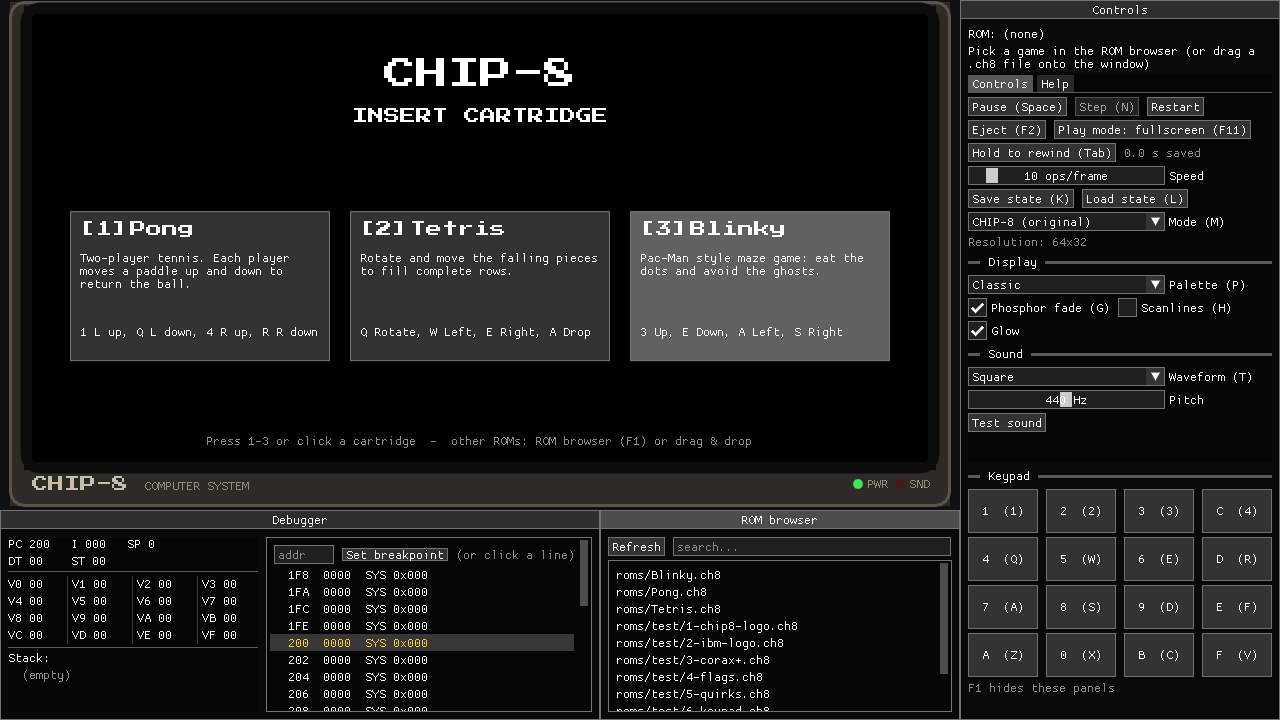
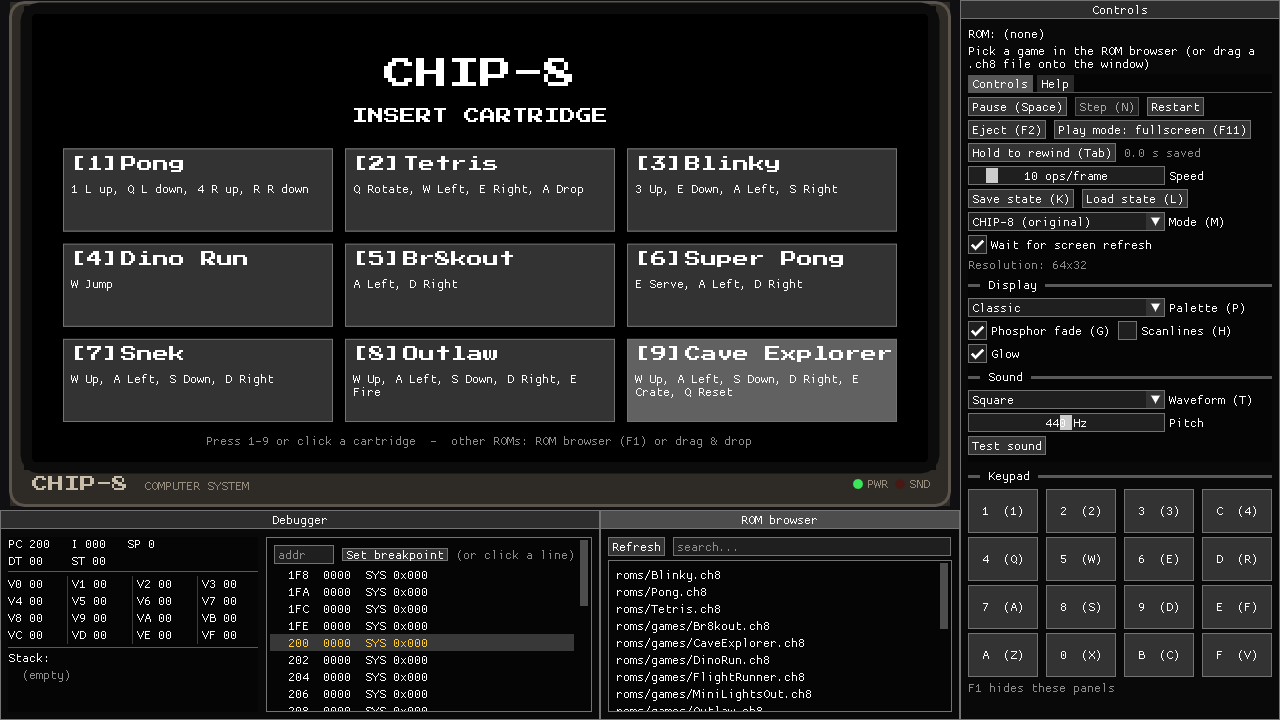
feat(ui): 9-cartridge start screen, per-game settings incl. screen-refresh wait

diff --git a/src/ui.cpp b/src/ui.cpp
@@ -63,7 +63,7 @@ static void help_tab(App& app){
 
         // One click sets the mode and speed this game needs
         bool mode_ok = (app.chip8.cosmac_quirks == !g->needs_schip);
-        if(!mode_ok || app.s.cycles_per_frame != g->speed){
+        if(!mode_ok || app.s.cycles_per_frame != g->speed || app.s.display_wait != g->vblank){
             char label[96];
             std::snprintf(label, sizeof(label), "Apply: %s mode, speed %d",
                           g->needs_schip ? "SUPER-CHIP" : "CHIP-8", g->speed);
@@ -166,8 +166,13 @@ static void side_panel(App& app){
             int mode = app.chip8.cosmac_quirks ? 0 : 1;
             if(ImGui::Combo("Mode (M)", &mode, "CHIP-8 (original)\0SUPER-CHIP\0")){
                 app.chip8.cosmac_quirks = (mode == 0);
+                s.display_wait = (mode == 0); // the original CHIP-8 waits, SUPER-CHIP doesn't
                 app_update_title(app);
             }
+            ImGui::Checkbox("Wait for screen refresh", &s.display_wait);
+            if(ImGui::IsItemHovered())
+                ImGui::SetTooltip("At most one sprite draw per frame, like the original 1977 machine.\n"
+                                  "Newer games (written for the Octo emulator) expect this off.");
             ImGui::TextDisabled("Resolution: %dx%d%s", app.chip8.screen_width(), app.chip8.screen_height(),
                                 app.chip8.hires ? " (hi-res)" : "");
 
@@ -417,6 +422,9 @@ static void apply_theme(const Palette& pal){
     c[ImGuiCol_TextSelectedBg]       = accent(0.40f, 0.6f);
 }
 
+// The palette's accent colour (set by apply_theme), as a packed colour for drawing
+static ImU32 col_accent_u32(){ return ImGui::GetColorU32(ImGuiCol_CheckMark); }
+
 // Blinks at about 2 Hz, for "INSERT CARTRIDGE" style text
 static bool blink(){ return (int)(ImGui::GetTime() * 2.0) % 2 == 0; }
 
@@ -490,48 +498,57 @@ static void start_screen(App& app){
         dl->AddText(f, fs, ImVec2(cx - ssz.x / 2, y + big_size + 18), col, sub);
     }
 
-    // One "cartridge" card per built-in game that exists on disk
-    static const char* const carts[] = {"roms/Pong.ch8", "roms/Tetris.ch8", "roms/Blinky.ch8"};
+    // One "cartridge" card per built-in game that exists on disk, in a 3-column grid
+    static const char* const carts[] = {
+        "roms/Pong.ch8", "roms/Tetris.ch8", "roms/Blinky.ch8",
+        "roms/games/DinoRun.ch8", "roms/games/Br8kout.ch8", "roms/games/SuperPong.ch8",
+        "roms/games/Snek.ch8", "roms/games/Outlaw.ch8", "roms/games/CaveExplorer.ch8"};
     std::vector<const char*> found;
     std::error_code err;
     for(const char* c : carts) if(fs::exists(c, err)) found.push_back(c);
-
     if(!found.empty()){
-        float card_w = std::min(260.0f, (sc.w - 60.0f) / 3.0f), card_h = std::min(150.0f, sc.h * 0.36f);
-        float total = found.size() * card_w + (found.size() - 1) * 20.0f;
-        float x0 = (sc.w - total) / 2.0f, y0 = sc.h * 0.44f;
+        const int COLS = 3;
+        int rows = ((int)found.size() + COLS - 1) / COLS;
+        float gap = 12.0f;
+        float top = sc.h * 0.30f, bottom = sc.h - 40.0f;   // space between the title and the footer
+        float card_w = std::min(270.0f, (sc.w - 60.0f - (COLS - 1) * gap) / COLS);
+        float card_h = std::min(120.0f, (bottom - top - (rows - 1) * gap) / rows);
+        float total_w = COLS * card_w + (COLS - 1) * gap;
+        float x0 = (sc.w - total_w) / 2.0f;
         for(size_t i = 0; i < found.size(); i++){
             const GameInfo* g = find_game(found[i]);
-            ImGui::SetCursorPos(ImVec2(x0 + i * (card_w + 20.0f), y0));
+            int col = (int)i % COLS, row = (int)i / COLS;
+            ImGui::SetCursorPos(ImVec2(x0 + col * (card_w + gap), top + row * (card_h + gap)));
             char id[16];
             std::snprintf(id, sizeof(id), "##cart%d", (int)i);
             bool pressed = ImGui::Button(id, ImVec2(card_w, card_h));
-            pressed |= ImGui::IsKeyPressed((ImGuiKey)(ImGuiKey_1 + (int)i), false); // keys 1, 2, 3
-
-            // Card contents drawn on top of the button
+            pressed |= ImGui::IsKeyPressed((ImGuiKey)(ImGuiKey_1 + (int)i), false); // keys 1-9
+            // Card contents drawn on top of the button: number, title, one line about it, controls
             ImVec2 p = ImGui::GetItemRectMin();
+            ImVec4 clip(p.x + 6, p.y + 4, p.x + card_w - 6, p.y + card_h - 4);
             char num[16];
             std::snprintf(num, sizeof(num), "[%d]", (int)i + 1);
-            pixel_text(dl, font_title, ImVec2(p.x + 10, p.y + 10), col, num);
-            pixel_text(dl, font_title, ImVec2(p.x + 60, p.y + 10), ImGui::GetColorU32(ImGuiCol_Text),
+            pixel_text(dl, font_title, ImVec2(p.x + 8, p.y + 8), col_accent_u32(), num);
+            pixel_text(dl, font_title, ImVec2(p.x + 58, p.y + 8), ImGui::GetColorU32(ImGuiCol_Text),
                        g ? g->title : found[i]);
             if(g){
-                ImVec4 clip(p.x + 8, p.y + 34, p.x + card_w - 8, p.y + card_h - 6);
-                dl->AddText(ImGui::GetFont(), ImGui::GetFontSize(), ImVec2(p.x + 10, p.y + 40),
-                            ImGui::GetColorU32(ImGuiCol_Text), g->about, nullptr, card_w - 20, &clip);
+                if(card_h >= 90)
+                    dl->AddText(ImGui::GetFont(), ImGui::GetFontSize(), ImVec2(p.x + 8, p.y + 32),
+                                ImGui::GetColorU32(ImGuiCol_TextDisabled), g->about, nullptr, card_w - 16, &clip);
                 std::string keys = game_key_summary(*g);
-                dl->AddText(ImGui::GetFont(), ImGui::GetFontSize(), ImVec2(p.x + 10, p.y + card_h - 36),
-                            col, keys.c_str(), nullptr, card_w - 20, &clip);
+                if(keys.empty()) keys = "All 16 keys";
+                // Below the title; long control lists wrap onto a second or third line
+                float keys_y = (card_h >= 90) ? p.y + card_h - 36 : p.y + 34;
+                dl->AddText(ImGui::GetFont(), ImGui::GetFontSize(), ImVec2(p.x + 8, keys_y),
+                            col_accent_u32(), keys.c_str(), nullptr, card_w - 16, &clip);
             }
             if(pressed){
-                app_load_rom(app, found[i]);
-                app_apply_recommended(app); // e.g. Blinky switches to SUPER-CHIP by itself
+                app_load_rom(app, found[i]); // applies the game's recommended settings too
                 break;
             }
         }
     }
-
-    const char* foot = "Press 1-3 or click a cartridge  -  other ROMs: ROM browser (F1) or drag & drop";
+    const char* foot = "Press 1-9 or click a cartridge  -  other ROMs: ROM browser (F1) or drag & drop";
     ImVec2 fsz = ImGui::CalcTextSize(foot);
     dl->AddText(ImVec2(cx - fsz.x / 2, sc.y + sc.h - 28), ImGui::GetColorU32(ImGuiCol_TextDisabled), foot);
     ImGui::End();

diff --git a/src/games.h b/src/games.h
@@ -26,53 +26,89 @@ struct GameInfo {
     const char* tips;
     bool needs_schip;     // true = run in SUPER-CHIP mode
     int speed;            // recommended instructions per frame
+    bool vblank;          // true = at most one sprite draw per frame (waits for the screen refresh,
+                          // like the original COSMAC VIP); games written for Octo expect false
     GameKey keys[6];      // unused entries have action == nullptr
 };
 
 static const GameInfo GAMES[] = {
+    // ---- Games from the CHIP-8 Archive (CC0, see roms/games/CREDITS.md). Listed before Pong so
+    // that "superpong" is matched before "pong". Controls from each game's "howto" notes.
+    {"superpong", "Super Pong",
+     "A fast one-player pong: keep the ball in play. By offstatic (2021).",
+     "E serves the ball.",
+     false, 30, false, {{0x6, "Serve"}, {0x7, "Left"}, {0x9, "Right"}}},
+    {"br8kout", "Br8kout",
+     "Breakout clone: bounce the ball to clear all the bricks. By SharpenedSpoon (2014).",
+     "Don't let the ball get past your paddle.",
+     false, 7, false, {{0x7, "Left"}, {0x9, "Right"}}},
+    {"dinorun", "Dino Run",
+     "Endless runner: jump over the cacti for as long as you can. By Andrezinrc.",
+     "The only goal is to keep going. Hold Tab to rewind a crash!",
+     false, 15, true, {{0x5, "Jump"}}},
+    {"snek", "Snek",
+     "Minimalist Snake in just 65 bytes. By John Earnest (2021).",
+     "Eat to grow; don't run into yourself. Written for a very fast CPU, so speed is set to the maximum.",
+     false, 100, false, {{0x5, "Up"}, {0x7, "Left"}, {0x8, "Down"}, {0x9, "Right"}}},
+    {"outlaw", "Outlaw",
+     "Wild-west duel, adapted from the Atari 2600 game. By John Earnest (2014).",
+     "Move your gunman and shoot the outlaw across the screen.",
+     false, 15, false, {{0x5, "Up"}, {0x7, "Left"}, {0x8, "Down"}, {0x9, "Right"}, {0x6, "Fire"}}},
+    {"caveexplorer", "Cave Explorer",
+     "Explore a 16-screen cave world, solve puzzles and push crates. By John Earnest (2014).",
+     "In platform levels E picks up / drops crates and Q resets the level.",
+     false, 20, false, {{0x5, "Up"}, {0x7, "Left"}, {0x8, "Down"}, {0x9, "Right"}, {0x6, "Crate"}, {0x4, "Reset"}}},
+    {"flightrunner", "Flight Runner",
+     "Fly through the obstacles without crashing. By TodPunk (2014).",
+     "",
+     false, 15, false, {{0x7, "Left"}, {0x9, "Right"}}},
+    {"minilightsout", "Mini Lights Out",
+     "Puzzle: the 16 keys are a 4x4 grid of lights. Turn them all off. By tobiasvl (2019).",
+     "Each key toggles its light and its neighbours, laid out exactly like the keypad (1 2 3 4 / Q W E R / A S D F / Z X C V).",
+     false, 7, false, {}},
     {"pong", "Pong",
      "Two-player tennis. Each player moves a paddle up and down to return the ball.",
      "Two people can share one keyboard: left player on 1/Q, right player on 4/R.",
-     false, 10, {{0x1, "L up"}, {0x4, "L down"}, {0xC, "R up"}, {0xD, "R down"}}},
+     false, 10, true, {{0x1, "L up"}, {0x4, "L down"}, {0xC, "R up"}, {0xD, "R down"}}},
     {"tetris", "Tetris",
      "Rotate and move the falling pieces to fill complete rows.",
      "Hold A to drop faster. Press K before a risky move and L to undo it, or hold Tab to rewind.",
-     false, 10, {{0x4, "Rotate"}, {0x5, "Left"}, {0x6, "Right"}, {0x7, "Drop"}}},
+     false, 10, true, {{0x4, "Rotate"}, {0x5, "Left"}, {0x6, "Right"}, {0x7, "Drop"}}},
     {"blinky", "Blinky",
      "Pac-Man style maze game: eat the dots and avoid the ghosts.",
      "Written for SUPER-CHIP: click the Apply button below (SUPER-CHIP mode, speed 30).",
-     true, 30, {{0x3, "Up"}, {0x6, "Down"}, {0x7, "Left"}, {0x8, "Right"}}},
+     true, 30, false, {{0x3, "Up"}, {0x6, "Down"}, {0x7, "Left"}, {0x8, "Right"}}},
     {"1-chip8-logo", "Test: CHIP-8 logo",
      "Draws the CHIP-8 logo using only the most basic instructions. No input needed.",
      "If the logo looks right, clear screen, jump, set register and draw all work.",
-     false, 10, {}},
+     false, 10, true, {}},
     {"2-ibm-logo", "Test: IBM logo",
      "The classic first test program: draws the IBM logo. No input needed.",
-     "", false, 10, {}},
+     "", false, 10, true, {}},
     {"3-corax", "Test: corax+ opcodes",
      "Runs every CHIP-8 instruction and shows a check mark or an X next to each opcode name.",
      "All check marks = every instruction behaves correctly. No input needed.",
-     false, 10, {}},
+     false, 10, true, {}},
     {"4-flags", "Test: flags",
      "Checks the VF flag after every maths instruction (HAPPY = no overflow, CARRY = with overflow).",
      "The last mark on each line checks the case where VF itself is the target register.",
-     false, 10, {}},
+     false, 10, true, {}},
     {"5-quirks", "Test: quirks",
      "Checks the behaviours that differ between CHIP-8 versions. First pick the platform.",
      "Set Mode to match your choice: CHIP-8 for 1, SUPER-CHIP for 2 (then 1 = modern).",
-     false, 10, {{0x1, "CHIP-8"}, {0x2, "SCHIP"}, {0x3, "XO-CHIP"}}},
+     false, 10, true, {{0x1, "CHIP-8"}, {0x2, "SCHIP"}, {0x3, "XO-CHIP"}}},
     {"6-keypad", "Test: keypad",
      "Tests the keypad instructions. Pick a test, then press keys: they light up on screen.",
      "1 = key down/up checks (EX9E/EXA1), 2 and 3 = 'wait for a key' (FX0A).",
-     false, 10, {{0x1, "Test 1"}, {0x2, "Test 2"}, {0x3, "Test 3"}}},
+     false, 10, true, {{0x1, "Test 1"}, {0x2, "Test 2"}, {0x3, "Test 3"}}},
     {"7-beep", "Test: beep",
      "Plays the beep while you hold the CHIP-8 'B' key.",
      "Hold C (CHIP-8 key B). Try different waveforms and pitches in the Sound settings.",
-     false, 10, {{0xB, "Beep"}}},
+     false, 10, true, {{0xB, "Beep"}}},
     {"8-scrolling", "Test: SUPER-CHIP scrolling",
      "Tests the SUPER-CHIP scroll instructions. Pick SUPER-CHIP, then low or high resolution.",
      "Correct result: every arrow sits neatly inside its box.",
-     true, 10, {{0x1, "SCHIP/Lo"}, {0x2, "Hi-res"}}},
+     true, 10, false, {{0x1, "SCHIP/Lo"}, {0x2, "Hi-res"}}},
 };
 static const int NUM_GAMES = sizeof(GAMES) / sizeof(GAMES[0]);
 

diff --git a/src/main.cpp b/src/main.cpp
@@ -158,6 +158,12 @@ void app_update_title(App& app){
 }
 
 void app_load_rom(App& app, const std::string& path){
+    // Known games (games.h) get their recommended mode, speed and screen-refresh setting
+    if(const GameInfo* g = find_game(path)){
+        app.chip8.cosmac_quirks = !g->needs_schip;
+        app.s.cycles_per_frame = g->speed;
+        app.s.display_wait = g->vblank;
+    }
     bool mode = app.chip8.cosmac_quirks; // keep the chosen quirks mode
     app.chip8 = Chip8();
     app.chip8.cosmac_quirks = mode;
@@ -241,6 +247,7 @@ void app_apply_recommended(App& app){
     bool mode_ok = (app.chip8.cosmac_quirks == !g->needs_schip);
     app.chip8.cosmac_quirks = !g->needs_schip;
     app.s.cycles_per_frame = g->speed;
+    app.s.display_wait = g->vblank;
     if(!mode_ok) app_restart(app); // the game must start again in the right mode
     app_update_title(app);
 }
@@ -339,6 +346,7 @@ void handle_input(App& app){
                 // ---- Quirks mode ----
                 if(k == SDLK_m){
                     chip8.cosmac_quirks = !chip8.cosmac_quirks;
+                    s.display_wait = chip8.cosmac_quirks; // the original CHIP-8 waits, SUPER-CHIP doesn't
                     app_update_title(app);
                 }
                 // ---- Savestates (K/L also work on Macs, where F-keys need fn) ----
@@ -450,7 +458,7 @@ void run_frame(App& app){
         }
         // quirk: the original CHIP-8 waited for the screen refresh after each
         // sprite draw, so at most one draw happens per frame
-        if(chip8.cosmac_quirks && chip8.drew_sprite) break;
+        if(s.display_wait && chip8.drew_sprite) break;
     }
     // FIX: timers count down once per frame = 60 Hz, independent of CPU speed
     chip8.tick_timers();
@@ -518,7 +526,7 @@ int main(int argc, char** argv){
     for(int i = 1; i < argc; i++){
         std::string arg = argv[i];
         // Optional: start in SUPER-CHIP quirks mode (e.g. ./chip8 roms/Blinky.ch8 --schip)
-        if(arg == "--schip") app.chip8.cosmac_quirks = false;
+        if(arg == "--schip"){ app.chip8.cosmac_quirks = false; app.s.display_wait = false; }
         else if(arg == "--classic") app.classic = true; // start without the panels
         else app_load_rom(app, arg);
     }

diff --git a/src/app.h b/src/app.h
@@ -58,6 +58,9 @@ struct Settings{
     bool phosphor = true;   // CRT effect: pixels fade out instead of vanishing
     bool scanlines = false; // CRT effect: dark horizontal lines
     bool glow = true;       // CRT effect: lit pixels bleed light into their neighbours
+    // Wait for the screen refresh after each sprite draw (at most one draw per frame), like the
+    // original COSMAC VIP. Newer games written for Octo expect this off. Set per game (games.h).
+    bool display_wait = true;
 };
 
 // ---------------- Everything the front end owns ----------------

diff --git a/README.md b/README.md
@@ -89,6 +89,32 @@ Game tips (also shown in the in-app Help tab) — **Pong:** left paddle `1`/`Q`,
 
 ---
 
+## Included games
+
+Start the emulator with no arguments to get the **"INSERT CARTRIDGE"** start screen, then press 1-9
+or click a cartridge. Every other ROM is in the ROM browser. Known games get their recommended
+mode, speed and screen-refresh setting automatically, and their controls in the Help tab.
+
+| # | Game | Controls | Notes |
+|---|---|---|---|
+| 1 | Pong | `1`/`Q` left paddle, `4`/`R` right paddle | 2 players |
+| 2 | Tetris | `Q` rotate, `W` left, `E` right, `A` drop | |
+| 3 | Blinky | `3` up, `E` down, `A` left, `S` right | SUPER-CHIP mode |
+| 4 | Dino Run | `W` jump | endless runner |
+| 5 | Br8kout | `A` left, `D` right | Breakout clone |
+| 6 | Super Pong | `E` serve, `A` left, `D` right | |
+| 7 | Snek | `W` `A` `S` `D` | Snake in 65 bytes |
+| 8 | Outlaw | `W` `A` `S` `D` move, `E` fire | wild-west duel |
+| 9 | Cave Explorer | `W` `A` `S` `D`, `E` crate, `Q` reset level | 16-screen adventure |
+| – | Flight Runner | `A` left, `D` right | in the ROM browser |
+| – | Mini Lights Out | all 16 keys = the 4×4 grid | puzzle, in the ROM browser |
+
+Games 4-9 and the last two come from the [CHIP-8 Archive](https://github.com/JohnEarnest/chip8Archive)
+(Creative Commons 0, public domain); authors are listed in [`roms/games/CREDITS.md`](roms/games/CREDITS.md).
+They were written for the Octo emulator, which does not wait for the screen refresh after each
+sprite draw, so the emulator turns **"Wait for screen refresh"** off for them (it is a checkbox in
+the Controls tab, and part of each game's entry in `src/games.h`).
+
 ## Bugs found and fixed
 
 | # | File | Bug | Symptom | Fix |
@@ -329,6 +355,8 @@ We used AI tools significantly and want to be transparent about it:
 - Original codebase: TatHack '26 / Tathva, NIT Calicut
 - Test ROMs: [Timendus/chip8-test-suite](https://github.com/Timendus/chip8-test-suite) (GPL-3.0)
 - Game ROMs: [kripod/chip8-roms](https://github.com/kripod/chip8-roms)
+- More games: [CHIP-8 Archive](https://github.com/JohnEarnest/chip8Archive) by John Earnest and
+  contributors (CC0), see `roms/games/CREDITS.md`
 - On-screen panels: [Dear ImGui](https://github.com/ocornut/imgui) v1.91.9 by Omar Cornut (MIT)
 - Title font: [Press Start 2P](https://fonts.google.com/specimen/Press+Start+2P) by CodeMan38
   (SIL Open Font License, see `assets/fonts/OFL.txt`)
